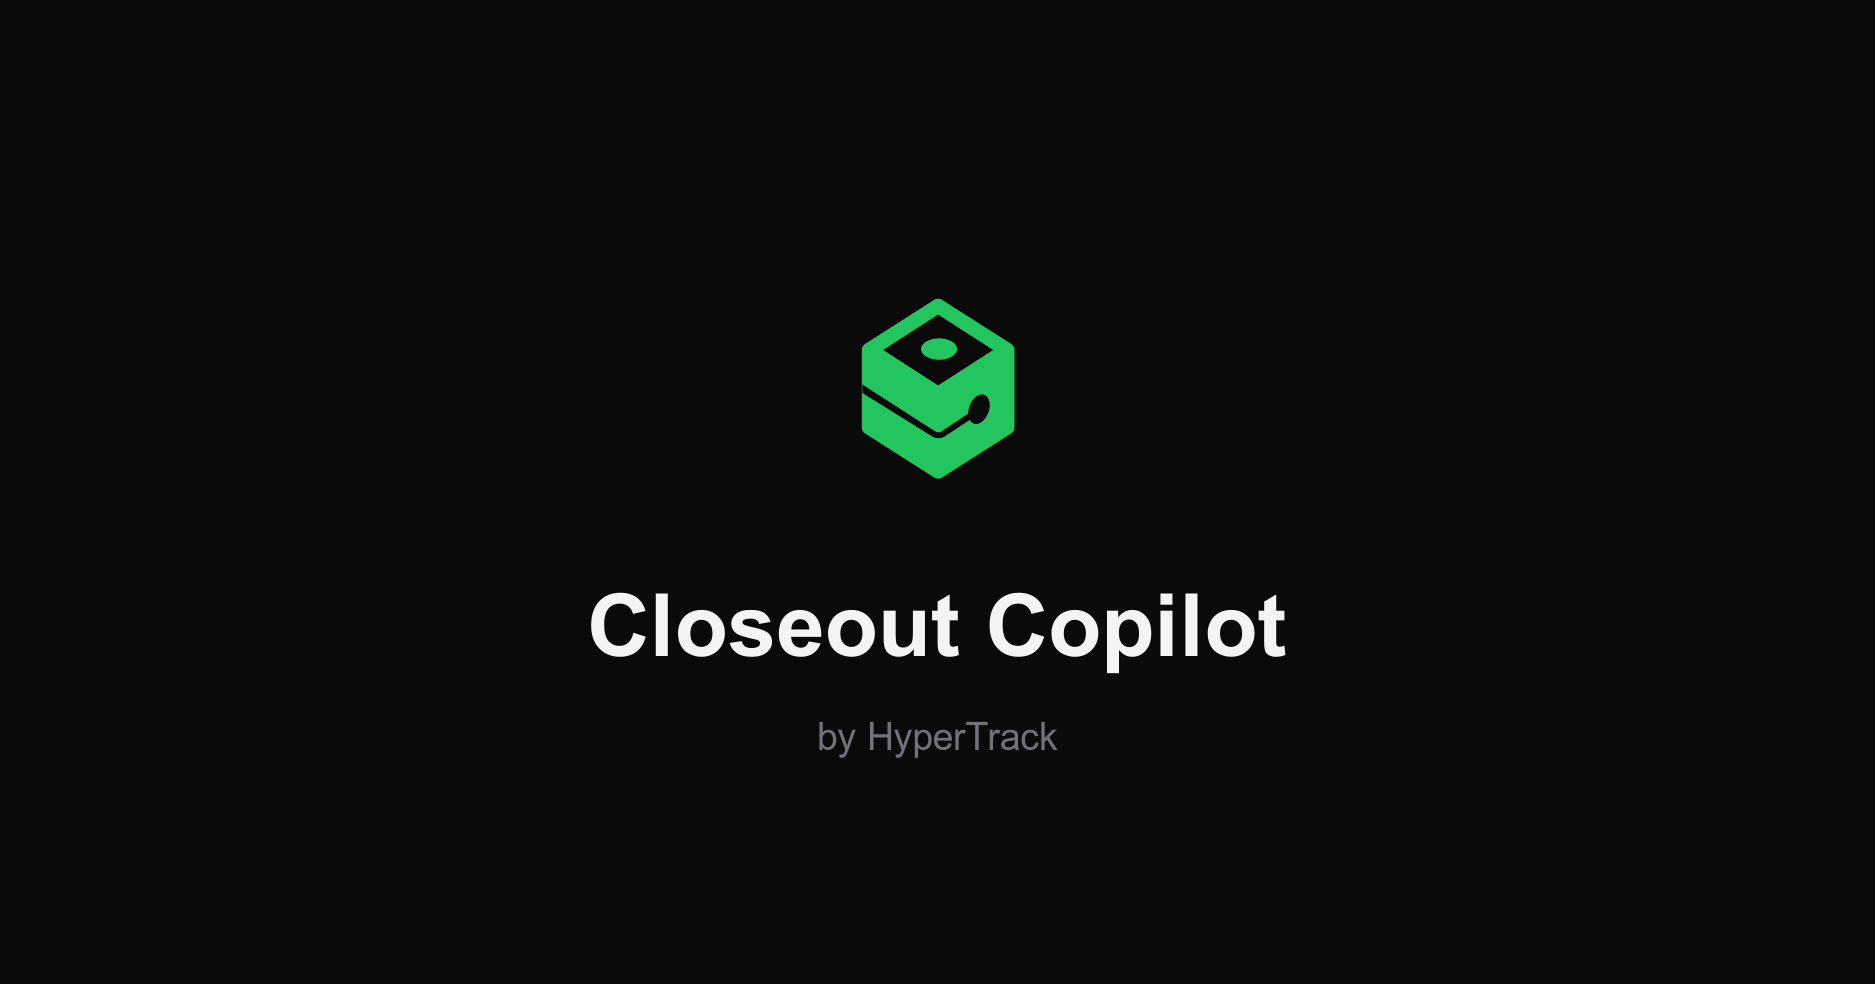
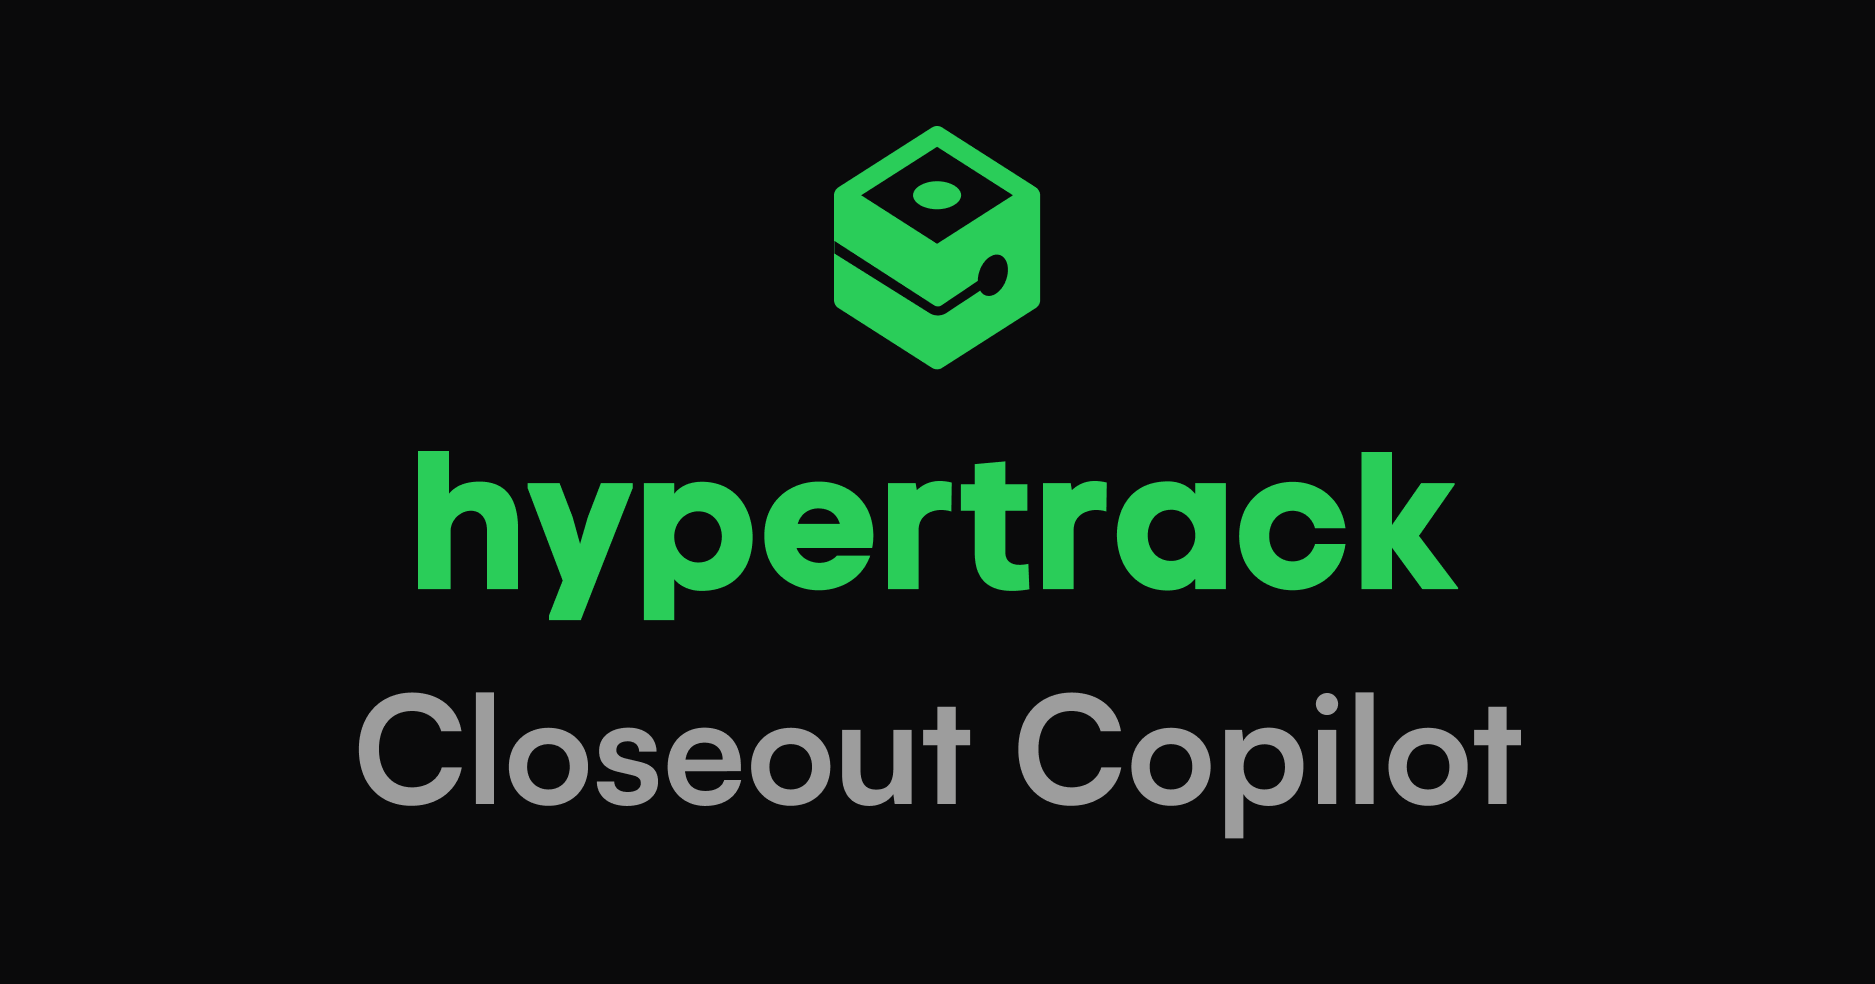
Update title to HyperTrack Closeout Copilot
🤖 Generated with [Claude Code](https://claude.com/claude-code)

Changed region(s): [[0.2165, 0.122, 0.7733, 0.6707], [0.1856, 0.7012, 0.8352, 0.8537]]

diff --git a/index.html b/index.html
@@ -3,7 +3,7 @@
 <head>
     <meta charset="UTF-8">
     <meta name="viewport" content="width=device-width, initial-scale=1.0">
-    <title>Closeout Copilot | AI-Powered Payout Reconciliation</title>
+    <title>HyperTrack Closeout Copilot | AI-Powered Payout Reconciliation</title>
     <meta name="description" content="From chaos to closeout in seconds. AI-powered timesheet reconciliation for staffing companies. $1 per shift.">
 
     <!-- Favicon -->
@@ -12,14 +12,14 @@
     <!-- Open Graph / Facebook -->
     <meta property="og:type" content="website">
     <meta property="og:url" content="https://closeoutcopilot.com">
-    <meta property="og:title" content="Closeout Copilot">
+    <meta property="og:title" content="HyperTrack Closeout Copilot">
     <meta property="og:description" content="AI-powered timesheet reconciliation for staffing companies. $1 per shift.">
     <meta property="og:image" content="https://closeoutcopilot.com/og-image.png">
 
     <!-- Twitter -->
     <meta name="twitter:card" content="summary_large_image">
     <meta name="twitter:url" content="https://closeoutcopilot.com">
-    <meta name="twitter:title" content="Closeout Copilot">
+    <meta name="twitter:title" content="HyperTrack Closeout Copilot">
     <meta name="twitter:description" content="AI-powered timesheet reconciliation for staffing companies. $1 per shift.">
     <meta name="twitter:image" content="https://closeoutcopilot.com/og-image.png">
 
